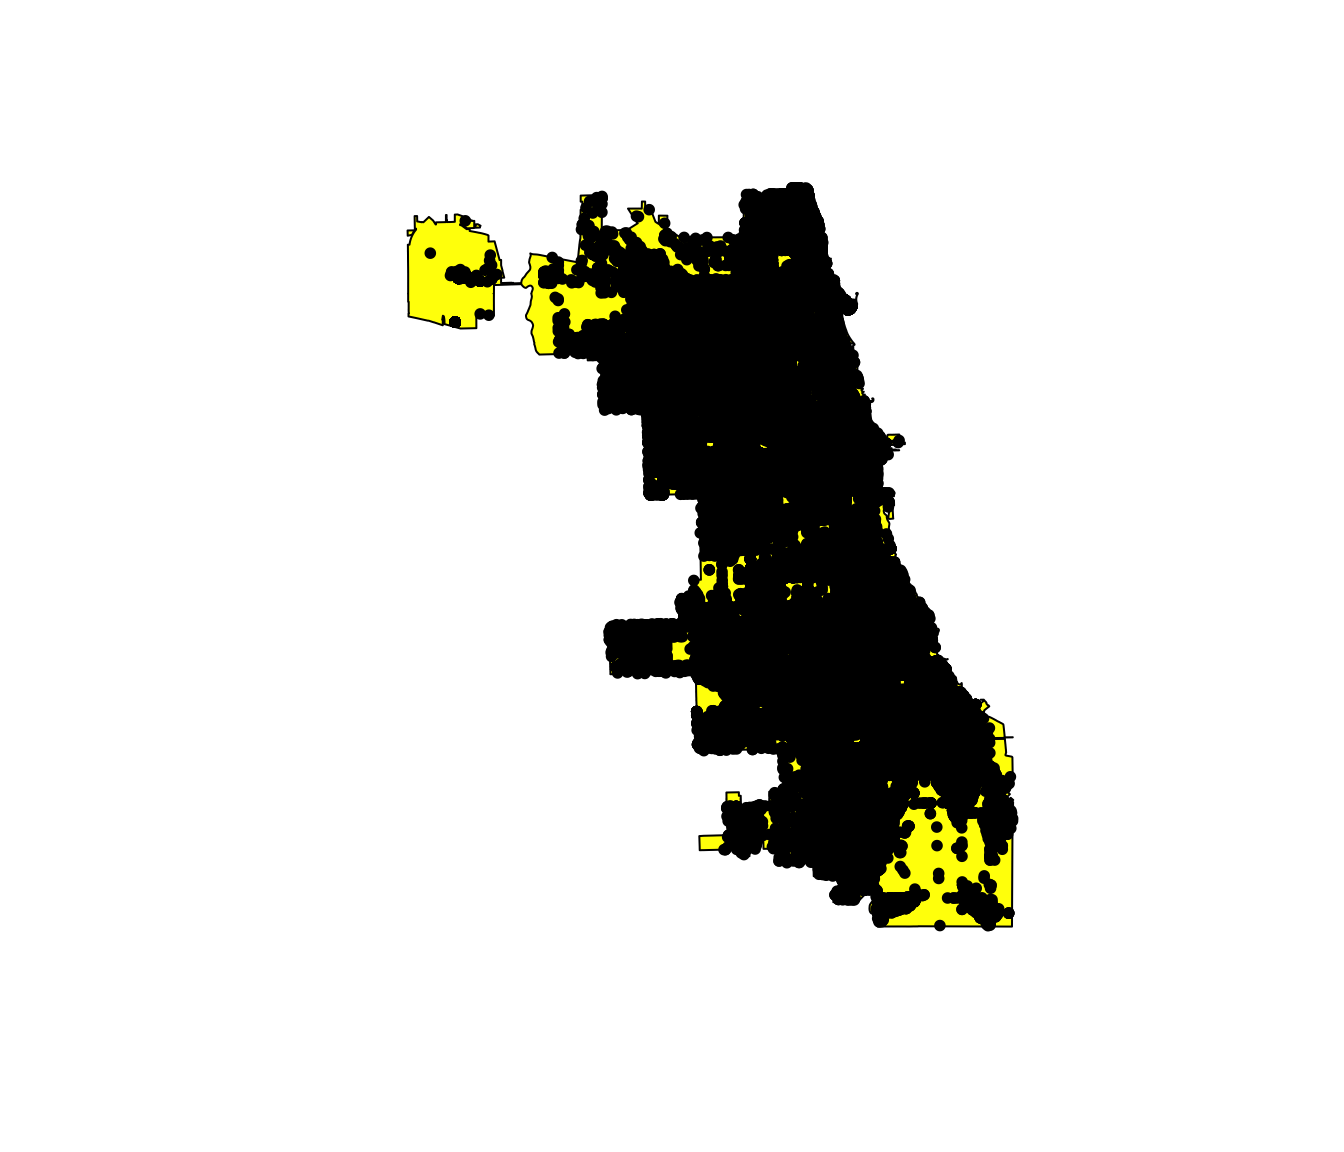
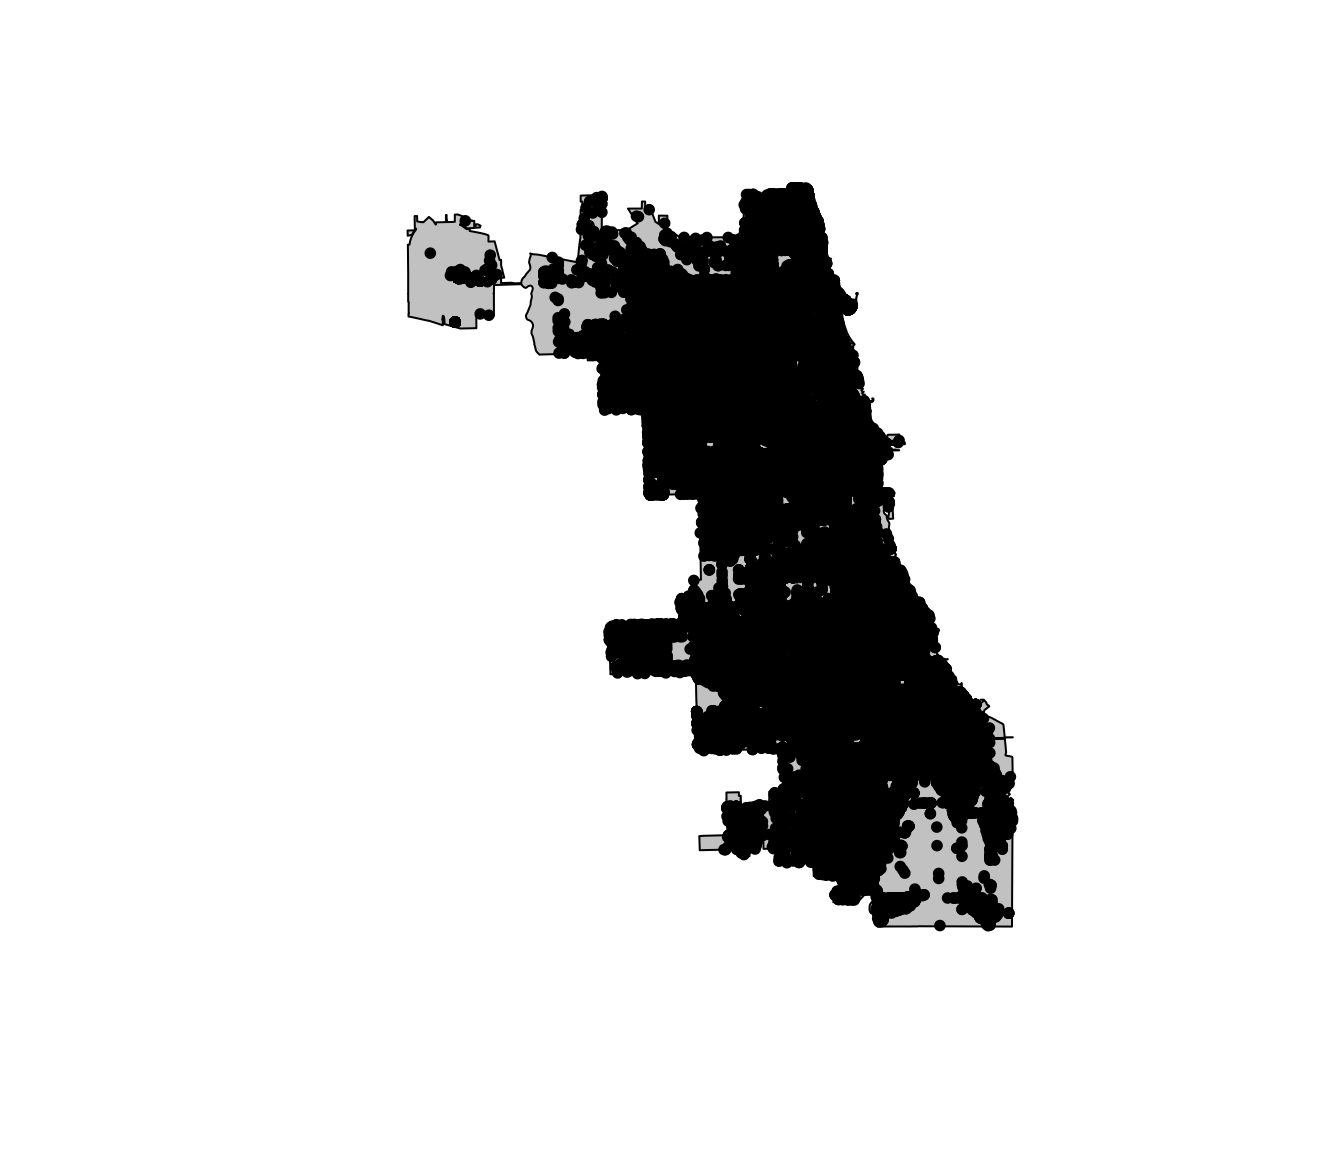
fix link error; sec 12

diff --git a/section12.html b/section12.html
@@ -439,7 +439,7 @@ div.tocify {
 <p><strong>Data</strong>:</p>
 <ul>
 <li>The folder <a href="Section12/ChicagoPoliceBeats.zip">ChicagoPoliceBeats</a>, which contains the shapefile of Chicago’s police beats.</li>
-<li>The file <a href="chicagoCrime.rds" class="uri">chicagoCrime.rds</a>.</li>
+<li>The file <a href="Section12/chicagoCrime.rds">chicagoCrime.rds</a>.</li>
 </ul>
 <!-- TODO -->
 </div>
@@ -765,6 +765,7 @@ crime_df %&lt;&gt;%<span class="st"> </span><span class="kw">subset</span>(prima
 <div class="sourceCode"><pre class="sourceCode r"><code class="sourceCode r"><span class="kw">plot</span>(crime_df)</code></pre></div>
 <p><img src="section12_files/figure-html/base%20plot%20points-1.png" width="672" /></p>
 <p>It looks like we have at least one observation that is not quite in Chicago. From the police beats, we know where Chicago is, so let’s use this knowledge to drop observations that are outside of Chicago.</p>
+<p>This observation brings up an important point: with all of the data manipulation required for spatial data—or any data-intensive project—it is good to continually check the quality of your data to make sure everything is making sense. For spatial data, this often looks like making many maps.</p>
 <p>First, let’s take the union of all of the polygons, which will give us a single polygon that outlines Chicago. For this task, we will use the function <code>gUnaryUnion()</code> from the <code>rgeos</code> package. We will plot the result using <code>plot()</code>.<a href="#fn10" class="footnoteRef" id="fnref10"><sup>10</sup></a></p>
 <div class="sourceCode"><pre class="sourceCode r"><code class="sourceCode r"><span class="co"># Take the union of the beats polygons</span>
 chicago_union &lt;-<span class="st"> </span><span class="kw">gUnaryUnion</span>(beats_shp)
@@ -785,7 +786,7 @@ test_points2 &lt;-<span class="st"> </span><span class="kw">point.in.polygon</sp
 <p>Now we will use <code>test_points</code> to drop observations outside of Chicago’s limits.</p>
 <div class="sourceCode"><pre class="sourceCode r"><code class="sourceCode r">crime_df &lt;-<span class="st"> </span>crime_df[<span class="kw">which</span>(test_points ==<span class="st"> </span>T), ]</code></pre></div>
 <p>Finally, let’s plot the crime points again to see if they now fit inside of the city.</p>
-<div class="sourceCode"><pre class="sourceCode r"><code class="sourceCode r"><span class="kw">plot</span>(chicago_union, <span class="dt">col =</span> <span class="st">&quot;yellow&quot;</span>)
+<div class="sourceCode"><pre class="sourceCode r"><code class="sourceCode r"><span class="kw">plot</span>(chicago_union, <span class="dt">col =</span> <span class="st">&quot;grey80&quot;</span>)
 <span class="kw">plot</span>(crime_df, <span class="dt">pch =</span> <span class="dv">20</span>, <span class="dt">add =</span> T)</code></pre></div>
 <p><img src="section12_files/figure-html/do%20points%20fit-1.png" width="672" /></p>
 <p>Much better.</p>
@@ -851,7 +852,63 @@ crime_df %&lt;&gt;%<span class="st"> </span><span class="kw">mutate</span>(<span
 </div>
 <div id="aggregating-points-to-polygons" class="section level2">
 <h2>Aggregating points to polygons</h2>
-<p>What if want to count the number of incidents within a beat? You could use the <code>over()</code> function from the <code>sp</code> package, but the <code>poly.counts()</code> function in the <code>GISTools</code> package is a bit easier.</p>
+<p>What if want to count the number of incidents within a beat? You could use the <code>over()</code> function from the <code>sp</code> package, but the <code>poly.counts()</code> function in the <code>GISTools</code> package is a bit easier. You feed the function a dataset of points and a dataset of polygons, and <code>poly.counts()</code> counts the points within each polygon.</p>
+<p>The general</p>
+<div class="sourceCode"><pre class="sourceCode r"><code class="sourceCode r"><span class="kw">poly.counts</span>(<span class="dt">pts =</span> crime_spdf, <span class="dt">polys =</span> beats_shp)</code></pre></div>
+<p>Let’s also add a year feature to the spatial points data frame.</p>
+<div class="sourceCode"><pre class="sourceCode r"><code class="sourceCode r"><span class="co"># Add &#39;year&#39; to spatial points data frame</span>
+crime_spdf@data %&lt;&gt;%<span class="st"> </span><span class="kw">mutate</span>(<span class="dt">year =</span> <span class="kw">year</span>(date))</code></pre></div>
+<p>Now let’s count the points in each polygon (beat) by year and by type of crime.</p>
+<div class="sourceCode"><pre class="sourceCode r"><code class="sourceCode r"><span class="co"># Count homicides by year</span>
+homicide_beats &lt;-<span class="st"> </span><span class="kw">lapply</span>(<span class="dt">X =</span> <span class="dv">2010</span>:<span class="dv">2016</span>, <span class="dt">FUN =</span> function(y) {
+  <span class="co"># Count points in polygons</span>
+  tmp &lt;-<span class="st"> </span><span class="kw">poly.counts</span>(
+    <span class="dt">pts =</span> <span class="kw">subset</span>(crime_spdf, (year ==<span class="st"> </span>y) &amp;<span class="st"> </span>(primary_offense ==<span class="st"> &quot;HOMICIDE&quot;</span>)),
+    <span class="dt">polys =</span> beats_shp)
+  <span class="co"># Create data frame</span>
+  tmp_df &lt;-<span class="st"> </span><span class="kw">data.frame</span>(
+    <span class="dt">id =</span> <span class="kw">names</span>(tmp),
+    <span class="dt">count =</span> tmp)
+  <span class="co"># Change names</span>
+  <span class="kw">names</span>(tmp_df)[<span class="dv">2</span>] &lt;-<span class="st"> </span><span class="kw">paste0</span>(<span class="st">&quot;hom_&quot;</span>, y)
+  <span class="co"># Return tmp_df</span>
+  <span class="kw">return</span>(tmp_df)
+  })
+<span class="co"># Count narcotics offenses by year</span>
+narcotics_beats &lt;-<span class="st"> </span><span class="kw">lapply</span>(<span class="dt">X =</span> <span class="dv">2010</span>:<span class="dv">2016</span>, <span class="dt">FUN =</span> function(y) {
+  <span class="co"># Count points in polygons</span>
+  tmp &lt;-<span class="st"> </span><span class="kw">poly.counts</span>(
+    <span class="dt">pts =</span> <span class="kw">subset</span>(crime_spdf, (year ==<span class="st"> </span>y) &amp;<span class="st"> </span>(primary_offense ==<span class="st"> &quot;NARCOTICS&quot;</span>)),
+    <span class="dt">polys =</span> beats_shp)
+  <span class="co"># Create data frame</span>
+  tmp_df &lt;-<span class="st"> </span><span class="kw">data.frame</span>(
+    <span class="dt">id =</span> <span class="kw">names</span>(tmp),
+    <span class="dt">count =</span> tmp)
+  <span class="co"># Change names</span>
+  <span class="kw">names</span>(tmp_df)[<span class="dv">2</span>] &lt;-<span class="st"> </span><span class="kw">paste0</span>(<span class="st">&quot;narc_&quot;</span>, y)
+  <span class="co"># Return tmp_df</span>
+  <span class="kw">return</span>(tmp_df)
+  })</code></pre></div>
+<p>Finally, we will (1) bind these lists of datasets together, and (2) join these datasets onto the data stored in the police beats shapefile (in the <code>data</code> slot).</p>
+<div class="sourceCode"><pre class="sourceCode r"><code class="sourceCode r"><span class="co"># Bind the lists together</span>
+narc_df &lt;-<span class="st"> </span><span class="kw">bind_cols</span>(narcotics_beats)
+hom_df &lt;-<span class="st"> </span><span class="kw">bind_cols</span>(homicide_beats)
+<span class="co"># Select unique columns</span>
+narc_df &lt;-<span class="st"> </span>narc_df[, !<span class="kw">duplicated</span>(<span class="kw">names</span>(narc_df))] %&gt;%<span class="st"> </span><span class="kw">tbl_df</span>()
+hom_df &lt;-<span class="st"> </span>hom_df[, !<span class="kw">duplicated</span>(<span class="kw">names</span>(hom_df))] %&gt;%<span class="st"> </span><span class="kw">tbl_df</span>()</code></pre></div>
+<p>Finally, we can join these data in <code>hom_df</code> and <code>narc_df</code> to the <code>data</code> slot in our shapefile. We will add the row names to the shapefile’s data so that we can join the dataset with <code>narc_df</code> and <code>hom_df</code>. We will then update <code>beats_df</code> using <code>tidy()</code>. Finally, to join the new variables, we will use <code>left_join()</code> from <code>dplyr</code>. It’s a great function.</p>
+<div class="sourceCode"><pre class="sourceCode r"><code class="sourceCode r"><span class="co"># Add row names</span>
+beats_shp@data$id &lt;-<span class="st"> </span><span class="kw">rownames</span>(beats_shp@data)
+<span class="co"># Join the count data</span>
+beats_shp@data &lt;-<span class="st"> </span><span class="kw">left_join</span>(<span class="dt">x =</span> beats_shp@data, <span class="dt">y =</span> narc_df, <span class="dt">by =</span> <span class="st">&quot;id&quot;</span>)
+beats_shp@data &lt;-<span class="st"> </span><span class="kw">left_join</span>(<span class="dt">x =</span> beats_shp@data, <span class="dt">y =</span> hom_df, <span class="dt">by =</span> <span class="st">&quot;id&quot;</span>)
+<span class="co"># Re-create data frame</span>
+beats_df &lt;-<span class="st"> </span><span class="kw">tidy</span>(beats_shp, <span class="dt">region =</span> <span class="st">&quot;id&quot;</span>)
+<span class="co"># Join the beats counts (again)</span>
+beats_df %&lt;&gt;%<span class="st"> </span><span class="kw">left_join</span>(<span class="dt">x =</span> ., <span class="dt">y =</span> narc_df, <span class="dt">by =</span> <span class="st">&quot;id&quot;</span>)
+beats_df %&lt;&gt;%<span class="st"> </span><span class="kw">left_join</span>(<span class="dt">x =</span> ., <span class="dt">y =</span> hom_df, <span class="dt">by =</span> <span class="st">&quot;id&quot;</span>)</code></pre></div>
+<p>And now, we can plot our shapefile, coloring the police beats by the number of homicides in 2010. We will update <code>beats_df</code>.</p>
+<div class="sourceCode"><pre class="sourceCode r"><code class="sourceCode r"><span class="co">#</span></code></pre></div>
 <!-- TODO -->
 </div>
 </div>

diff --git a/futureNotes.html b/futureNotes.html
@@ -205,6 +205,9 @@ $(document).ready(function () {
       <a href="section10.html">Section 10</a>
     </li>
     <li>
+      <a href="section11.html">Section 11</a>
+    </li>
+    <li>
       <a href="latexKnitr.html">LaTeX and knitr</a>
     </li>
   </ul>

diff --git a/section00.html b/section00.html
@@ -205,6 +205,9 @@ $(document).ready(function () {
       <a href="section10.html">Section 10</a>
     </li>
     <li>
+      <a href="section11.html">Section 11</a>
+    </li>
+    <li>
       <a href="latexKnitr.html">LaTeX and knitr</a>
     </li>
   </ul>
